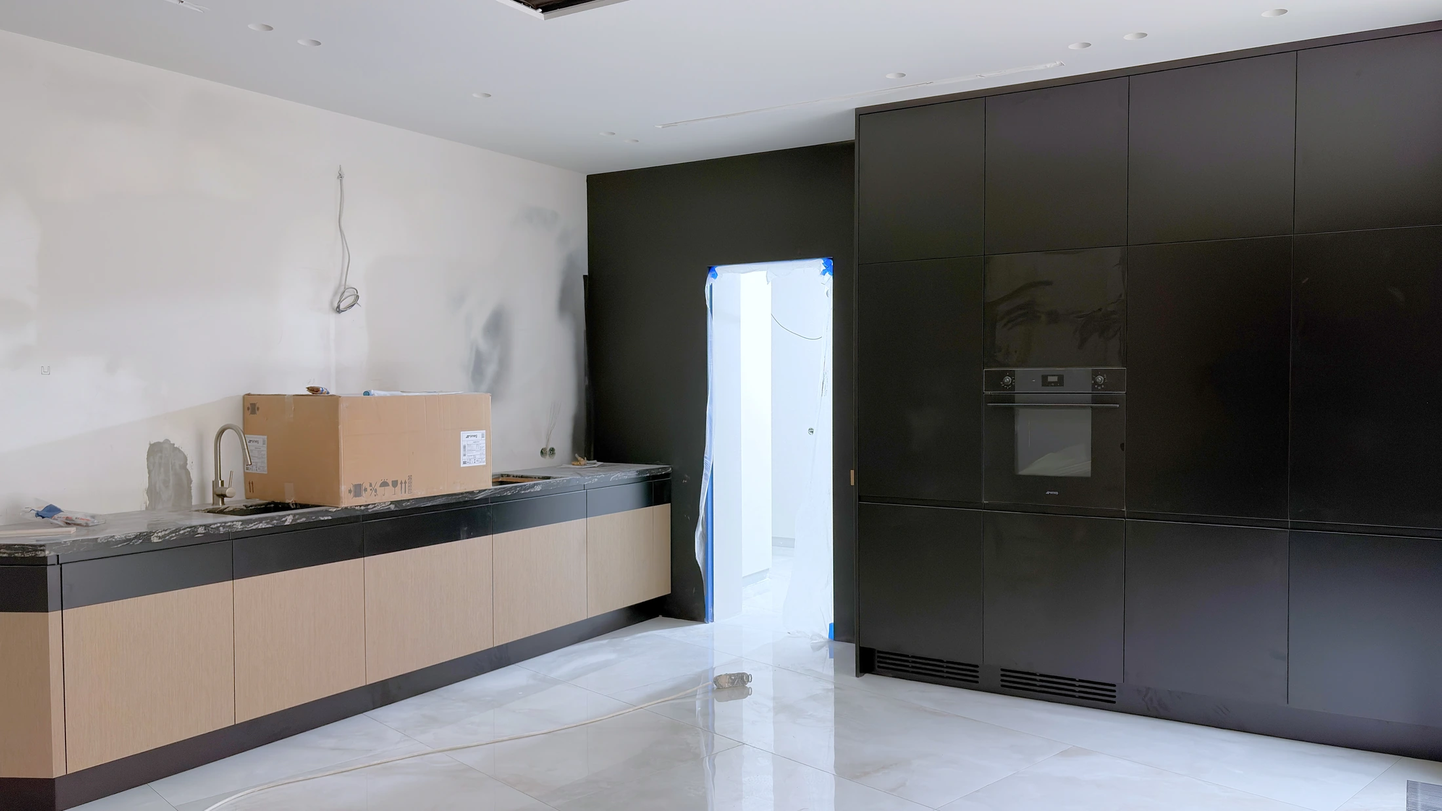
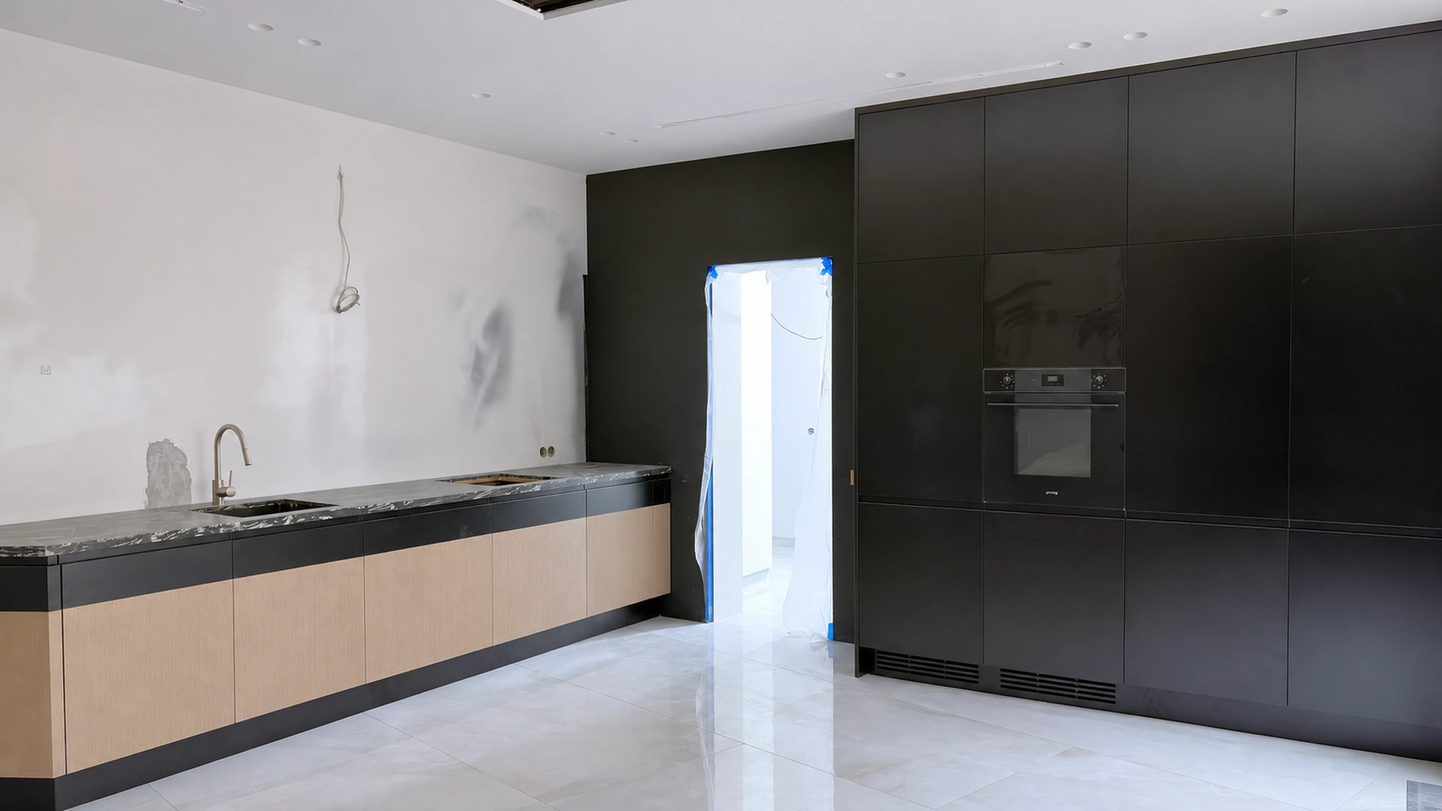
Remove construction debris from Apartment G photos

diff --git a/Прототип/cases/apartment-g/index.html b/Прототип/cases/apartment-g/index.html
@@ -51,183 +51,183 @@
     </div>
     <div class="case-gallery" aria-label="Фотографии апартамента G">
       <figure class="wide">
-        <a href="../../assets/apartment-g/IMG_6802.webp?v=4" aria-label="Открыть фото: Кухня с тёмными фасадами"><img src="../../assets/apartment-g/IMG_6802.webp?v=4" width="2200" height="1238" fetchpriority="high" alt="Кухня с тёмными фасадами"></a>
+        <a href="../../assets/apartment-g/IMG_6802.webp?v=5" aria-label="Открыть фото: Кухня с тёмными фасадами"><img src="../../assets/apartment-g/IMG_6802.webp?v=5" width="2200" height="1238" fetchpriority="high" alt="Кухня с тёмными фасадами"></a>
         <figcaption>Кухня с тёмными фасадами</figcaption>
       </figure>
       <figure class="wide">
-        <a href="../../assets/apartment-g/IMG_6803.webp?v=4" aria-label="Открыть фото: Кухня у панорамного остекления"><img src="../../assets/apartment-g/IMG_6803.webp?v=4" width="2200" height="1238" loading="lazy" decoding="async" alt="Кухня у панорамного остекления"></a>
+        <a href="../../assets/apartment-g/IMG_6803.webp?v=5" aria-label="Открыть фото: Кухня у панорамного остекления"><img src="../../assets/apartment-g/IMG_6803.webp?v=5" width="2200" height="1238" loading="lazy" decoding="async" alt="Кухня у панорамного остекления"></a>
         <figcaption>Кухня у панорамного остекления</figcaption>
       </figure>
       <figure class="wide">
-        <a href="../../assets/apartment-g/IMG_6811.webp?v=4" aria-label="Открыть фото: Комната с угловым остеклением"><img src="../../assets/apartment-g/IMG_6811.webp?v=4" width="2200" height="1238" loading="lazy" decoding="async" alt="Комната с угловым остеклением"></a>
+        <a href="../../assets/apartment-g/IMG_6811.webp?v=5" aria-label="Открыть фото: Комната с угловым остеклением"><img src="../../assets/apartment-g/IMG_6811.webp?v=5" width="2200" height="1238" loading="lazy" decoding="async" alt="Комната с угловым остеклением"></a>
         <figcaption>Комната с угловым остеклением</figcaption>
       </figure>
       <figure class="wide">
-        <a href="../../assets/apartment-g/IMG_6812.webp?v=4" aria-label="Открыть фото: Панели в спальне"><img src="../../assets/apartment-g/IMG_6812.webp?v=4" width="2200" height="1238" loading="lazy" decoding="async" alt="Панели в спальне"></a>
+        <a href="../../assets/apartment-g/IMG_6812.webp?v=5" aria-label="Открыть фото: Панели в спальне"><img src="../../assets/apartment-g/IMG_6812.webp?v=5" width="2200" height="1238" loading="lazy" decoding="async" alt="Панели в спальне"></a>
         <figcaption>Панели в спальне</figcaption>
       </figure>
       <figure>
-        <a href="../../assets/apartment-g/IMG_6813.webp?v=4" aria-label="Открыть фото: Бра и фурнитура на стеновой панели"><img src="../../assets/apartment-g/IMG_6813.webp?v=4" width="1237" height="2200" loading="lazy" decoding="async" alt="Бра и фурнитура на стеновой панели"></a>
+        <a href="../../assets/apartment-g/IMG_6813.webp?v=5" aria-label="Открыть фото: Бра и фурнитура на стеновой панели"><img src="../../assets/apartment-g/IMG_6813.webp?v=5" width="1237" height="2200" loading="lazy" decoding="async" alt="Бра и фурнитура на стеновой панели"></a>
         <figcaption>Бра и фурнитура на стеновой панели</figcaption>
       </figure>
       <figure>
-        <a href="../../assets/apartment-g/IMG_6814.webp?v=4" aria-label="Открыть фото: Окно в спальне"><img src="../../assets/apartment-g/IMG_6814.webp?v=4" width="1237" height="2200" loading="lazy" decoding="async" alt="Окно в спальне"></a>
+        <a href="../../assets/apartment-g/IMG_6814.webp?v=5" aria-label="Открыть фото: Окно в спальне"><img src="../../assets/apartment-g/IMG_6814.webp?v=5" width="1237" height="2200" loading="lazy" decoding="async" alt="Окно в спальне"></a>
         <figcaption>Окно в спальне</figcaption>
       </figure>
       <figure>
-        <a href="../../assets/apartment-g/IMG_6976.webp?v=4" aria-label="Открыть фото: Примыкание ступени к полу"><img src="../../assets/apartment-g/IMG_6976.webp?v=4" width="1237" height="2200" loading="lazy" decoding="async" alt="Примыкание ступени к полу"></a>
+        <a href="../../assets/apartment-g/IMG_6976.webp?v=5" aria-label="Открыть фото: Примыкание ступени к полу"><img src="../../assets/apartment-g/IMG_6976.webp?v=5" width="1237" height="2200" loading="lazy" decoding="async" alt="Примыкание ступени к полу"></a>
         <figcaption>Примыкание ступени к полу</figcaption>
       </figure>
       <figure>
-        <a href="../../assets/apartment-g/IMG_6977.webp?v=4" aria-label="Открыть фото: Кромка ступени"><img src="../../assets/apartment-g/IMG_6977.webp?v=4" width="1237" height="2200" loading="lazy" decoding="async" alt="Кромка ступени"></a>
+        <a href="../../assets/apartment-g/IMG_6977.webp?v=5" aria-label="Открыть фото: Кромка ступени"><img src="../../assets/apartment-g/IMG_6977.webp?v=5" width="1237" height="2200" loading="lazy" decoding="async" alt="Кромка ступени"></a>
         <figcaption>Кромка ступени</figcaption>
       </figure>
       <figure>
-        <a href="../../assets/apartment-g/IMG_6986.webp?v=4" aria-label="Открыть фото: Фактура светлой стены"><img src="../../assets/apartment-g/IMG_6986.webp?v=4" width="1237" height="2200" loading="lazy" decoding="async" alt="Фактура светлой стены"></a>
+        <a href="../../assets/apartment-g/IMG_6986.webp?v=5" aria-label="Открыть фото: Фактура светлой стены"><img src="../../assets/apartment-g/IMG_6986.webp?v=5" width="1237" height="2200" loading="lazy" decoding="async" alt="Фактура светлой стены"></a>
         <figcaption>Фактура светлой стены</figcaption>
       </figure>
       <figure>
-        <a href="../../assets/apartment-g/IMG_6987.webp?v=4" aria-label="Открыть фото: Древесная фактура"><img src="../../assets/apartment-g/IMG_6987.webp?v=4" width="1237" height="2200" loading="lazy" decoding="async" alt="Древесная фактура"></a>
+        <a href="../../assets/apartment-g/IMG_6987.webp?v=5" aria-label="Открыть фото: Древесная фактура"><img src="../../assets/apartment-g/IMG_6987.webp?v=5" width="1237" height="2200" loading="lazy" decoding="async" alt="Древесная фактура"></a>
         <figcaption>Древесная фактура</figcaption>
       </figure>
       <figure>
-        <a href="../../assets/apartment-g/IMG_6988.webp?v=4" aria-label="Открыть фото: Коридор с трековым светом"><img src="../../assets/apartment-g/IMG_6988.webp?v=4" width="1237" height="2200" loading="lazy" decoding="async" alt="Коридор с трековым светом"></a>
+        <a href="../../assets/apartment-g/IMG_6988.webp?v=5" aria-label="Открыть фото: Коридор с трековым светом"><img src="../../assets/apartment-g/IMG_6988.webp?v=5" width="1237" height="2200" loading="lazy" decoding="async" alt="Коридор с трековым светом"></a>
         <figcaption>Коридор с трековым светом</figcaption>
       </figure>
       <figure>
-        <a href="../../assets/apartment-g/IMG_6994.webp?v=4" aria-label="Открыть фото: Санузел в процессе работ"><img src="../../assets/apartment-g/IMG_6994.webp?v=4" width="1237" height="2200" loading="lazy" decoding="async" alt="Санузел в процессе работ"></a>
+        <a href="../../assets/apartment-g/IMG_6994.webp?v=5" aria-label="Открыть фото: Санузел в процессе работ"><img src="../../assets/apartment-g/IMG_6994.webp?v=5" width="1237" height="2200" loading="lazy" decoding="async" alt="Санузел в процессе работ"></a>
         <figcaption>Санузел в процессе работ</figcaption>
       </figure>
       <figure>
-        <a href="../../assets/apartment-g/IMG_6998.webp?v=4" aria-label="Открыть фото: Настенный светильник в коридоре"><img src="../../assets/apartment-g/IMG_6998.webp?v=4" width="1237" height="2200" loading="lazy" decoding="async" alt="Настенный светильник в коридоре"></a>
+        <a href="../../assets/apartment-g/IMG_6998.webp?v=5" aria-label="Открыть фото: Настенный светильник в коридоре"><img src="../../assets/apartment-g/IMG_6998.webp?v=5" width="1237" height="2200" loading="lazy" decoding="async" alt="Настенный светильник в коридоре"></a>
         <figcaption>Настенный светильник в коридоре</figcaption>
       </figure>
       <figure>
-        <a href="../../assets/apartment-g/IMG_6999.webp?v=4" aria-label="Открыть фото: Трековые светильники и подсветка"><img src="../../assets/apartment-g/IMG_6999.webp?v=4" width="1339" height="2200" loading="lazy" decoding="async" alt="Трековые светильники и подсветка"></a>
+        <a href="../../assets/apartment-g/IMG_6999.webp?v=5" aria-label="Открыть фото: Трековые светильники и подсветка"><img src="../../assets/apartment-g/IMG_6999.webp?v=5" width="1339" height="2200" loading="lazy" decoding="async" alt="Трековые светильники и подсветка"></a>
         <figcaption>Трековые светильники и подсветка</figcaption>
       </figure>
       <figure>
-        <a href="../../assets/apartment-g/IMG_7001.webp?v=4" aria-label="Открыть фото: Коридор со стороны остекления"><img src="../../assets/apartment-g/IMG_7001.webp?v=4" width="1238" height="2200" loading="lazy" decoding="async" alt="Коридор со стороны остекления"></a>
+        <a href="../../assets/apartment-g/IMG_7001.webp?v=5" aria-label="Открыть фото: Коридор со стороны остекления"><img src="../../assets/apartment-g/IMG_7001.webp?v=5" width="1238" height="2200" loading="lazy" decoding="async" alt="Коридор со стороны остекления"></a>
         <figcaption>Коридор со стороны остекления</figcaption>
       </figure>
       <figure>
-        <a href="../../assets/apartment-g/IMG_7002.webp?v=4" aria-label="Открыть фото: Коридор, вид с другой стороны"><img src="../../assets/apartment-g/IMG_7002.webp?v=4" width="1237" height="2200" loading="lazy" decoding="async" alt="Коридор, вид с другой стороны"></a>
+        <a href="../../assets/apartment-g/IMG_7002.webp?v=5" aria-label="Открыть фото: Коридор, вид с другой стороны"><img src="../../assets/apartment-g/IMG_7002.webp?v=5" width="1237" height="2200" loading="lazy" decoding="async" alt="Коридор, вид с другой стороны"></a>
         <figcaption>Коридор, вид с другой стороны</figcaption>
       </figure>
       <figure>
-        <a href="../../assets/apartment-g/IMG_7003.webp?v=4" aria-label="Открыть фото: Вид из коридора в столовую"><img src="../../assets/apartment-g/IMG_7003.webp?v=4" width="1238" height="2200" loading="lazy" decoding="async" alt="Вид из коридора в столовую"></a>
+        <a href="../../assets/apartment-g/IMG_7003.webp?v=5" aria-label="Открыть фото: Вид из коридора в столовую"><img src="../../assets/apartment-g/IMG_7003.webp?v=5" width="1238" height="2200" loading="lazy" decoding="async" alt="Вид из коридора в столовую"></a>
         <figcaption>Вид из коридора в столовую</figcaption>
       </figure>
       <figure class="wide">
-        <a href="../../assets/apartment-g/IMG_7006.webp?v=4" aria-label="Открыть фото: Трековое освещение у каменных панелей"><img src="../../assets/apartment-g/IMG_7006.webp?v=4" width="2200" height="1238" loading="lazy" decoding="async" alt="Трековое освещение у каменных панелей"></a>
+        <a href="../../assets/apartment-g/IMG_7006.webp?v=5" aria-label="Открыть фото: Трековое освещение у каменных панелей"><img src="../../assets/apartment-g/IMG_7006.webp?v=5" width="2200" height="1238" loading="lazy" decoding="async" alt="Трековое освещение у каменных панелей"></a>
         <figcaption>Трековое освещение у каменных панелей</figcaption>
       </figure>
       <figure>
-        <a href="../../assets/apartment-g/IMG_7011.webp?v=4" aria-label="Открыть фото: Комната в процессе работ"><img src="../../assets/apartment-g/IMG_7011.webp?v=4" width="1237" height="2200" loading="lazy" decoding="async" alt="Комната в процессе работ"></a>
+        <a href="../../assets/apartment-g/IMG_7011.webp?v=5" aria-label="Открыть фото: Комната в процессе работ"><img src="../../assets/apartment-g/IMG_7011.webp?v=5" width="1237" height="2200" loading="lazy" decoding="async" alt="Комната в процессе работ"></a>
         <figcaption>Комната в процессе работ</figcaption>
       </figure>
       <figure>
-        <a href="../../assets/apartment-g/IMG_7015.webp?v=4" aria-label="Открыть фото: Подсветка потолочной ниши"><img src="../../assets/apartment-g/IMG_7015.webp?v=4" width="1238" height="2200" loading="lazy" decoding="async" alt="Подсветка потолочной ниши"></a>
+        <a href="../../assets/apartment-g/IMG_7015.webp?v=5" aria-label="Открыть фото: Подсветка потолочной ниши"><img src="../../assets/apartment-g/IMG_7015.webp?v=5" width="1238" height="2200" loading="lazy" decoding="async" alt="Подсветка потолочной ниши"></a>
         <figcaption>Подсветка потолочной ниши</figcaption>
       </figure>
       <figure>
-        <a href="../../assets/apartment-g/IMG_7016.webp?v=4" aria-label="Открыть фото: Световая линия вдоль стены"><img src="../../assets/apartment-g/IMG_7016.webp?v=4" width="1237" height="2200" loading="lazy" decoding="async" alt="Световая линия вдоль стены"></a>
+        <a href="../../assets/apartment-g/IMG_7016.webp?v=5" aria-label="Открыть фото: Световая линия вдоль стены"><img src="../../assets/apartment-g/IMG_7016.webp?v=5" width="1237" height="2200" loading="lazy" decoding="async" alt="Световая линия вдоль стены"></a>
         <figcaption>Световая линия вдоль стены</figcaption>
       </figure>
       <figure class="wide">
-        <a href="../../assets/apartment-g/IMG_7018.webp?v=4" aria-label="Открыть фото: Трек и контурная подсветка потолка"><img src="../../assets/apartment-g/IMG_7018.webp?v=4" width="2200" height="1238" loading="lazy" decoding="async" alt="Трек и контурная подсветка потолка"></a>
+        <a href="../../assets/apartment-g/IMG_7018.webp?v=5" aria-label="Открыть фото: Трек и контурная подсветка потолка"><img src="../../assets/apartment-g/IMG_7018.webp?v=5" width="2200" height="1238" loading="lazy" decoding="async" alt="Трек и контурная подсветка потолка"></a>
         <figcaption>Трек и контурная подсветка потолка</figcaption>
       </figure>
       <figure class="wide">
-        <a href="../../assets/apartment-g/IMG_7024.webp?v=4" aria-label="Открыть фото: Каменные панели у входа в столовую"><img src="../../assets/apartment-g/IMG_7024.webp?v=4" width="2200" height="1238" loading="lazy" decoding="async" alt="Каменные панели у входа в столовую"></a>
+        <a href="../../assets/apartment-g/IMG_7024.webp?v=5" aria-label="Открыть фото: Каменные панели у входа в столовую"><img src="../../assets/apartment-g/IMG_7024.webp?v=5" width="2200" height="1238" loading="lazy" decoding="async" alt="Каменные панели у входа в столовую"></a>
         <figcaption>Каменные панели у входа в столовую</figcaption>
       </figure>
       <figure class="wide">
-        <a href="../../assets/apartment-g/IMG_7351.webp?v=4" aria-label="Открыть фото: Спальня со стороны входа"><img src="../../assets/apartment-g/IMG_7351.webp?v=4" width="2200" height="1238" loading="lazy" decoding="async" alt="Спальня со стороны входа"></a>
+        <a href="../../assets/apartment-g/IMG_7351.webp?v=5" aria-label="Открыть фото: Спальня со стороны входа"><img src="../../assets/apartment-g/IMG_7351.webp?v=5" width="2200" height="1238" loading="lazy" decoding="async" alt="Спальня со стороны входа"></a>
         <figcaption>Спальня со стороны входа</figcaption>
       </figure>
       <figure class="wide">
-        <a href="../../assets/apartment-g/IMG_7357.webp?v=4" aria-label="Открыть фото: Спальня с панелями за изголовьем"><img src="../../assets/apartment-g/IMG_7357.webp?v=4" width="2200" height="1238" loading="lazy" decoding="async" alt="Спальня с панелями за изголовьем"></a>
+        <a href="../../assets/apartment-g/IMG_7357.webp?v=5" aria-label="Открыть фото: Спальня с панелями за изголовьем"><img src="../../assets/apartment-g/IMG_7357.webp?v=5" width="2200" height="1238" loading="lazy" decoding="async" alt="Спальня с панелями за изголовьем"></a>
         <figcaption>Спальня с панелями за изголовьем</figcaption>
       </figure>
       <figure>
-        <a href="../../assets/apartment-g/IMG_7370.webp?v=4" aria-label="Открыть фото: Санузел с подвесным унитазом"><img src="../../assets/apartment-g/IMG_7370.webp?v=4" width="1237" height="2200" loading="lazy" decoding="async" alt="Санузел с подвесным унитазом"></a>
+        <a href="../../assets/apartment-g/IMG_7370.webp?v=5" aria-label="Открыть фото: Санузел с подвесным унитазом"><img src="../../assets/apartment-g/IMG_7370.webp?v=5" width="1237" height="2200" loading="lazy" decoding="async" alt="Санузел с подвесным унитазом"></a>
         <figcaption>Санузел с подвесным унитазом</figcaption>
       </figure>
       <figure class="wide">
-        <a href="../../assets/apartment-g/IMG_7371.webp?v=4" aria-label="Открыть фото: Потолок санузла в процессе монтажа"><img src="../../assets/apartment-g/IMG_7371.webp?v=4" width="2200" height="1238" loading="lazy" decoding="async" alt="Потолок санузла в процессе монтажа"></a>
+        <a href="../../assets/apartment-g/IMG_7371.webp?v=5" aria-label="Открыть фото: Потолок санузла в процессе монтажа"><img src="../../assets/apartment-g/IMG_7371.webp?v=5" width="2200" height="1238" loading="lazy" decoding="async" alt="Потолок санузла в процессе монтажа"></a>
         <figcaption>Потолок санузла в процессе монтажа</figcaption>
       </figure>
       <figure>
-        <a href="../../assets/apartment-g/IMG_7374.webp?v=4" aria-label="Открыть фото: Смеситель у ванны"><img src="../../assets/apartment-g/IMG_7374.webp?v=4" width="1237" height="2200" loading="lazy" decoding="async" alt="Смеситель у ванны"></a>
+        <a href="../../assets/apartment-g/IMG_7374.webp?v=5" aria-label="Открыть фото: Смеситель у ванны"><img src="../../assets/apartment-g/IMG_7374.webp?v=5" width="1237" height="2200" loading="lazy" decoding="async" alt="Смеситель у ванны"></a>
         <figcaption>Смеситель у ванны</figcaption>
       </figure>
       <figure>
-        <a href="../../assets/apartment-g/IMG_7375.webp?v=4" aria-label="Открыть фото: Стык двух видов облицовки"><img src="../../assets/apartment-g/IMG_7375.webp?v=4" width="1237" height="2200" loading="lazy" decoding="async" alt="Стык двух видов облицовки"></a>
+        <a href="../../assets/apartment-g/IMG_7375.webp?v=5" aria-label="Открыть фото: Стык двух видов облицовки"><img src="../../assets/apartment-g/IMG_7375.webp?v=5" width="1237" height="2200" loading="lazy" decoding="async" alt="Стык двух видов облицовки"></a>
         <figcaption>Стык двух видов облицовки</figcaption>
       </figure>
       <figure>
-        <a href="../../assets/apartment-g/IMG_7376.webp?v=4" aria-label="Открыть фото: Крючки на стене санузла"><img src="../../assets/apartment-g/IMG_7376.webp?v=4" width="1237" height="2200" loading="lazy" decoding="async" alt="Крючки на стене санузла"></a>
+        <a href="../../assets/apartment-g/IMG_7376.webp?v=5" aria-label="Открыть фото: Крючки на стене санузла"><img src="../../assets/apartment-g/IMG_7376.webp?v=5" width="1237" height="2200" loading="lazy" decoding="async" alt="Крючки на стене санузла"></a>
         <figcaption>Крючки на стене санузла</figcaption>
       </figure>
       <figure class="wide">
-        <a href="../../assets/apartment-g/IMG_7379.webp?v=4" aria-label="Открыть фото: Спальня с угловым остеклением"><img src="../../assets/apartment-g/IMG_7379.webp?v=4" width="2200" height="1238" loading="lazy" decoding="async" alt="Спальня с угловым остеклением"></a>
+        <a href="../../assets/apartment-g/IMG_7379.webp?v=5" aria-label="Открыть фото: Спальня с угловым остеклением"><img src="../../assets/apartment-g/IMG_7379.webp?v=5" width="2200" height="1238" loading="lazy" decoding="async" alt="Спальня с угловым остеклением"></a>
         <figcaption>Спальня с угловым остеклением</figcaption>
       </figure>
       <figure class="wide">
-        <a href="../../assets/apartment-g/IMG_7381.webp?v=4" aria-label="Открыть фото: Спальня, вид на панорамное окно"><img src="../../assets/apartment-g/IMG_7381.webp?v=4" width="2200" height="1238" loading="lazy" decoding="async" alt="Спальня, вид на панорамное окно"></a>
+        <a href="../../assets/apartment-g/IMG_7381.webp?v=5" aria-label="Открыть фото: Спальня, вид на панорамное окно"><img src="../../assets/apartment-g/IMG_7381.webp?v=5" width="2200" height="1238" loading="lazy" decoding="async" alt="Спальня, вид на панорамное окно"></a>
         <figcaption>Спальня, вид на панорамное окно</figcaption>
       </figure>
       <figure>
-        <a href="../../assets/apartment-g/IMG_7383.webp?v=4" aria-label="Открыть фото: Подсветка над стеновыми панелями в спальне"><img src="../../assets/apartment-g/IMG_7383.webp?v=4" width="1237" height="2200" loading="lazy" decoding="async" alt="Подсветка над стеновыми панелями в спальне"></a>
+        <a href="../../assets/apartment-g/IMG_7383.webp?v=5" aria-label="Открыть фото: Подсветка над стеновыми панелями в спальне"><img src="../../assets/apartment-g/IMG_7383.webp?v=5" width="1237" height="2200" loading="lazy" decoding="async" alt="Подсветка над стеновыми панелями в спальне"></a>
         <figcaption>Подсветка над стеновыми панелями в спальне</figcaption>
       </figure>
       <figure class="wide">
-        <a href="../../assets/apartment-g/IMG_7394.webp?v=4" aria-label="Открыть фото: Гостиная вдоль панорамных окон"><img src="../../assets/apartment-g/IMG_7394.webp?v=4" width="2200" height="1238" loading="lazy" decoding="async" alt="Гостиная вдоль панорамных окон"></a>
+        <a href="../../assets/apartment-g/IMG_7394.webp?v=5" aria-label="Открыть фото: Гостиная вдоль панорамных окон"><img src="../../assets/apartment-g/IMG_7394.webp?v=5" width="2200" height="1238" loading="lazy" decoding="async" alt="Гостиная вдоль панорамных окон"></a>
         <figcaption>Гостиная вдоль панорамных окон</figcaption>
       </figure>
       <figure class="wide">
-        <a href="../../assets/apartment-g/IMG_7395.webp?v=4" aria-label="Открыть фото: Гостиная с мягкой мебелью"><img src="../../assets/apartment-g/IMG_7395.webp?v=4" width="2200" height="1238" loading="lazy" decoding="async" alt="Гостиная с мягкой мебелью"></a>
+        <a href="../../assets/apartment-g/IMG_7395.webp?v=5" aria-label="Открыть фото: Гостиная с мягкой мебелью"><img src="../../assets/apartment-g/IMG_7395.webp?v=5" width="2200" height="1238" loading="lazy" decoding="async" alt="Гостиная с мягкой мебелью"></a>
         <figcaption>Гостиная с мягкой мебелью</figcaption>
       </figure>
       <figure class="wide">
-        <a href="../../assets/apartment-g/IMG_7402.webp?v=4" aria-label="Открыть фото: Потолок гостиной в процессе работ"><img src="../../assets/apartment-g/IMG_7402.webp?v=4" width="2200" height="1238" loading="lazy" decoding="async" alt="Потолок гостиной в процессе работ"></a>
+        <a href="../../assets/apartment-g/IMG_7402.webp?v=5" aria-label="Открыть фото: Потолок гостиной в процессе работ"><img src="../../assets/apartment-g/IMG_7402.webp?v=5" width="2200" height="1238" loading="lazy" decoding="async" alt="Потолок гостиной в процессе работ"></a>
         <figcaption>Потолок гостиной в процессе работ</figcaption>
       </figure>
       <figure class="wide">
-        <a href="../../assets/apartment-g/IMG_7410.webp?v=4" aria-label="Открыть фото: Проход из гостиной в соседние помещения"><img src="../../assets/apartment-g/IMG_7410.webp?v=4" width="2200" height="1238" loading="lazy" decoding="async" alt="Проход из гостиной в соседние помещения"></a>
+        <a href="../../assets/apartment-g/IMG_7410.webp?v=5" aria-label="Открыть фото: Проход из гостиной в соседние помещения"><img src="../../assets/apartment-g/IMG_7410.webp?v=5" width="2200" height="1238" loading="lazy" decoding="async" alt="Проход из гостиной в соседние помещения"></a>
         <figcaption>Проход из гостиной в соседние помещения</figcaption>
       </figure>
       <figure class="wide">
-        <a href="../../assets/apartment-g/IMG_7425.webp?v=4" aria-label="Открыть фото: Кухня-столовая с подвесными светильниками"><img src="../../assets/apartment-g/IMG_7425.webp?v=4" width="2200" height="1238" loading="lazy" decoding="async" alt="Кухня-столовая с подвесными светильниками"></a>
+        <a href="../../assets/apartment-g/IMG_7425.webp?v=5" aria-label="Открыть фото: Кухня-столовая с подвесными светильниками"><img src="../../assets/apartment-g/IMG_7425.webp?v=5" width="2200" height="1238" loading="lazy" decoding="async" alt="Кухня-столовая с подвесными светильниками"></a>
         <figcaption>Кухня-столовая с подвесными светильниками</figcaption>
       </figure>
       <figure class="wide">
-        <a href="../../assets/apartment-g/IMG_7427.webp?v=4" aria-label="Открыть фото: Гостиная с настенными светильниками"><img src="../../assets/apartment-g/IMG_7427.webp?v=4" width="2200" height="1238" loading="lazy" decoding="async" alt="Гостиная с настенными светильниками"></a>
+        <a href="../../assets/apartment-g/IMG_7427.webp?v=5" aria-label="Открыть фото: Гостиная с настенными светильниками"><img src="../../assets/apartment-g/IMG_7427.webp?v=5" width="2200" height="1238" loading="lazy" decoding="async" alt="Гостиная с настенными светильниками"></a>
         <figcaption>Гостиная с настенными светильниками</figcaption>
       </figure>
       <figure class="wide">
-        <a href="../../assets/apartment-g/IMG_7432.webp?v=4" aria-label="Открыть фото: Стеновые панели и трековый свет в коридоре"><img src="../../assets/apartment-g/IMG_7432.webp?v=4" width="2200" height="1238" loading="lazy" decoding="async" alt="Стеновые панели и трековый свет в коридоре"></a>
+        <a href="../../assets/apartment-g/IMG_7432.webp?v=5" aria-label="Открыть фото: Стеновые панели и трековый свет в коридоре"><img src="../../assets/apartment-g/IMG_7432.webp?v=5" width="2200" height="1238" loading="lazy" decoding="async" alt="Стеновые панели и трековый свет в коридоре"></a>
         <figcaption>Стеновые панели и трековый свет в коридоре</figcaption>
       </figure>
       <figure>
-        <a href="../../assets/apartment-g/IMG_7435.webp?v=4" aria-label="Открыть фото: Электрощит"><img src="../../assets/apartment-g/IMG_7435.webp?v=4" width="1237" height="2200" loading="lazy" decoding="async" alt="Электрощит"></a>
+        <a href="../../assets/apartment-g/IMG_7435.webp?v=5" aria-label="Открыть фото: Электрощит"><img src="../../assets/apartment-g/IMG_7435.webp?v=5" width="1237" height="2200" loading="lazy" decoding="async" alt="Электрощит"></a>
         <figcaption>Электрощит</figcaption>
       </figure>
       <figure>
-        <a href="../../assets/apartment-g/IMG_7437.webp?v=4" aria-label="Открыть фото: Помещение в процессе отделки"><img src="../../assets/apartment-g/IMG_7437.webp?v=4" width="1237" height="2200" loading="lazy" decoding="async" alt="Помещение в процессе отделки"></a>
+        <a href="../../assets/apartment-g/IMG_7437.webp?v=5" aria-label="Открыть фото: Помещение в процессе отделки"><img src="../../assets/apartment-g/IMG_7437.webp?v=5" width="1237" height="2200" loading="lazy" decoding="async" alt="Помещение в процессе отделки"></a>
         <figcaption>Помещение в процессе отделки</figcaption>
       </figure>
       <figure class="wide">
-        <a href="../../assets/apartment-g/IMG_7445.webp?v=4" aria-label="Открыть фото: Столовая, вид на подвесные светильники"><img src="../../assets/apartment-g/IMG_7445.webp?v=4" width="2200" height="1238" loading="lazy" decoding="async" alt="Столовая, вид на подвесные светильники"></a>
+        <a href="../../assets/apartment-g/IMG_7445.webp?v=5" aria-label="Открыть фото: Столовая, вид на подвесные светильники"><img src="../../assets/apartment-g/IMG_7445.webp?v=5" width="2200" height="1238" loading="lazy" decoding="async" alt="Столовая, вид на подвесные светильники"></a>
         <figcaption>Столовая, вид на подвесные светильники</figcaption>
       </figure>
       <figure>
-        <a href="../../assets/apartment-g/IMG_7457.webp?v=4" aria-label="Открыть фото: Комната со стремянкой и рабочим освещением"><img src="../../assets/apartment-g/IMG_7457.webp?v=4" width="1237" height="2200" loading="lazy" decoding="async" alt="Комната со стремянкой и рабочим освещением"></a>
+        <a href="../../assets/apartment-g/IMG_7457.webp?v=5" aria-label="Открыть фото: Комната со стремянкой и рабочим освещением"><img src="../../assets/apartment-g/IMG_7457.webp?v=5" width="1237" height="2200" loading="lazy" decoding="async" alt="Комната со стремянкой и рабочим освещением"></a>
         <figcaption>Комната со стремянкой и рабочим освещением</figcaption>
       </figure>
       <figure>
-        <a href="../../assets/apartment-g/IMG_7465.webp?v=4" aria-label="Открыть фото: Душевая в процессе работ"><img src="../../assets/apartment-g/IMG_7465.webp?v=4" width="1237" height="2200" loading="lazy" decoding="async" alt="Душевая в процессе работ"></a>
+        <a href="../../assets/apartment-g/IMG_7465.webp?v=5" aria-label="Открыть фото: Душевая в процессе работ"><img src="../../assets/apartment-g/IMG_7465.webp?v=5" width="1237" height="2200" loading="lazy" decoding="async" alt="Душевая в процессе работ"></a>
         <figcaption>Душевая в процессе работ</figcaption>
       </figure>
     </div>

diff --git a/Прототип/index.html b/Прототип/index.html
@@ -8,7 +8,7 @@
 <dialog id="siteMenu" class="site-menu" aria-label="Навигация по сайту"><button class="close" id="closeMenu" aria-label="Закрыть меню">×</button><nav aria-label="Разделы сайта"><a href="#about">Подход</a><a href="#projects">Интерьеры</a><a href="#solutions">Комфорт</a><a href="#clarity">Договорённости</a><a href="#questions">Вопросы</a><a href="#contact">Контакты</a></nav></dialog>
 <main><section class="hero" id="home"><img src="assets/apartment-f/gallery/7060-retouched.webp" alt="Гостиная апартамента F с подсвеченной лестницей"><div class="hero-shade"></div><header class="hero-header"><button class="menu-toggle" id="menuToggle" aria-label="Открыть меню" aria-expanded="false" aria-controls="siteMenu"><svg viewBox="0 0 30 20"><path d="M1 3h28M1 10h28M1 17h19"/></svg></button><div class="header-actions"><a class="contact-icon" href="#contact" data-channel="Telegram" aria-label="Выбрать связь через Telegram" title="Связь через Telegram"><svg viewBox="0 0 24 24"><path d="m3 10 18-7-4 18-6-6-4 3 1-6 10-7-8 9"/></svg></a><a class="contact-icon" href="tel:+79884134357" aria-label="Позвонить в Atlas Group" title="+7 (988) 413-43-57"><svg viewBox="0 0 24 24"><path d="M6 3 3 6c1 8 7 14 15 15l3-3-5-4-2 2c-3-1-5-3-6-6l2-2Z"/></svg></a><a class="pill" href="#contact">Обсудить проект ↗</a></div></header><div class="hero-copy"><a class="hero-brand" href="#home" aria-label="Atlas Group — на главную"><img src="assets/brand/Atlas_Group_Logo_Light.svg" width="555" height="182" alt="Atlas Group"></a><h1>Ваш дом.<br><em>В точном исполнении.</em></h1><p>От пустого пространства до готового интерьера — с вниманием к вашим пожеланиям и каждой детали.<br>Создаём и реализуем интерьеры для вашей жизни.</p><a class="pill light" href="#contact">Обсудить ремонт ↗</a></div><a href="#about" class="scroll-link" aria-label="Далее, о компании">↓</a></section>
 <nav class="section-nav" aria-label="Разделы сайта"><button type="button" data-section-step="-1" aria-label="Предыдущий раздел">←</button><div class="section-nav-links"><a href="#about">Подход</a><a href="#projects">Интерьеры</a><a href="#solutions">Комфорт</a><a href="#clarity">Договорённости</a><a href="#questions">Вопросы</a><a href="#contact">Контакты</a></div><button type="button" data-section-step="1" aria-label="Следующий раздел">→</button></nav><section class="section about" id="about"><div class="section-heading"><span class="eyebrow">01 / НАШ ПОДХОД</span><h2>Дом начинается с того,<br><em>как вы хотите в нём жить.</em></h2></div><div class="about-grid"><div class="about-copy"><p class="lead">Красота замысла.<br>Точность воплощения.</p><p>Разрабатываем интерьеры и выполняем ремонт квартир и домов в Сочи — от дизайн-проекта и инженерных работ до чистовой отделки.</p><p>Сначала обсуждаем ваши пожелания: каким вы видите будущий дом, что для вас важно в планировке, материалах и оформлении. Разрабатываем проект, согласуем сроки и организуем работы. Контролируем качество каждого этапа. Стоимость рассчитываем заранее и фиксируем в смете до начала ремонта.</p><a class="text-link" href="#contact">Начать с консультации <span>↗</span></a></div><figure><img src="assets/apartment-f/gallery/7053-retouched.webp" alt="Гостиная и столовая апартамента F" loading="lazy"><figcaption>Естественный свет · Тактильные материалы · Чистые линии</figcaption></figure></div><div class="principles"><div><span class="line-icon">⌑</span><strong>Всё в одних руках</strong><p>Одна команда ведёт ваш проект —<br>от первых решений до готового интерьера.</p></div><div><span class="line-icon">◷</span><strong>Понятный процесс</strong><p>Состав работ, бюджет и сроки<br>согласуем заранее.</p></div><div><span class="line-icon">✧</span><strong>Внимание к деталям</strong><p>От инженерной основы<br>до финишной отделки.</p></div></div></section>
-<div class="brand-ribbon" aria-hidden="true"><span class="brand-ribbon-label">ATLAS GROUP</span><span class="brand-ribbon-pattern"></span><span class="brand-ribbon-index">СОЧИ</span></div><section class="section projects" id="projects"><div class="section-heading row"><div><span class="eyebrow">02 / ХАРАКТЕР ИНТЕРЬЕРА</span><h2>Пространства.<br><em>Такие разные. Ваши.</em></h2></div><p>Интерьеры квартир и домов.<br>Разные задачи, индивидуальные решения.</p></div><div class="gallery"><a class="photo-card tall" href="cases/apartment-f/index.html" data-kind="apartment" data-case aria-haspopup="dialog" aria-controls="apartment-f-dialog" style="text-decoration:none"><img src="assets/apartment-f/gallery/7060-retouched.webp" alt="Гостиная апартамента F с подсвеченной лестницей" loading="lazy"><span><small>РЕАЛИЗОВАННЫЙ ИНТЕРЬЕР</small><strong>Апартамент F</strong><i>Сочи · Два уровня · Смотреть кейс</i></span></a><a class="photo-card tall" href="cases/apartment-g/index.html" data-case data-kind="apartment" aria-haspopup="dialog" aria-controls="apartment-g-dialog" style="text-decoration:none"><img src="assets/apartment-g/IMG_7427.webp?v=4" alt="Гостиная апартамента G на текущем этапе ремонта" loading="lazy"><span><small>РЕМОНТ В ПРОЦЕССЕ</small><strong>Апартамент G</strong><i>Смотреть кейс ↗</i></span></a></div></section>
+<div class="brand-ribbon" aria-hidden="true"><span class="brand-ribbon-label">ATLAS GROUP</span><span class="brand-ribbon-pattern"></span><span class="brand-ribbon-index">СОЧИ</span></div><section class="section projects" id="projects"><div class="section-heading row"><div><span class="eyebrow">02 / ХАРАКТЕР ИНТЕРЬЕРА</span><h2>Пространства.<br><em>Такие разные. Ваши.</em></h2></div><p>Интерьеры квартир и домов.<br>Разные задачи, индивидуальные решения.</p></div><div class="gallery"><a class="photo-card tall" href="cases/apartment-f/index.html" data-kind="apartment" data-case aria-haspopup="dialog" aria-controls="apartment-f-dialog" style="text-decoration:none"><img src="assets/apartment-f/gallery/7060-retouched.webp" alt="Гостиная апартамента F с подсвеченной лестницей" loading="lazy"><span><small>РЕАЛИЗОВАННЫЙ ИНТЕРЬЕР</small><strong>Апартамент F</strong><i>Сочи · Два уровня · Смотреть кейс</i></span></a><a class="photo-card tall" href="cases/apartment-g/index.html" data-case data-kind="apartment" aria-haspopup="dialog" aria-controls="apartment-g-dialog" style="text-decoration:none"><img src="assets/apartment-g/IMG_7427.webp?v=5" alt="Гостиная апартамента G на текущем этапе ремонта" loading="lazy"><span><small>РЕМОНТ В ПРОЦЕССЕ</small><strong>Апартамент G</strong><i>Смотреть кейс ↗</i></span></a></div></section>
 
 <section class="section stories" id="solutions"><div class="section-heading"><span class="eyebrow">03 / В ОСНОВЕ КОМФОРТА</span><h2>Невидимые с первого взгляда.<br><em>Заметные каждый день.</em></h2></div><article class="story"><div><span class="story-number">01</span><span class="eyebrow">Планировка</span><h3>У каждого дома свой ритм</h3><p>Кому-то нужна большая кухня для встреч с друзьями, кому-то — тихий кабинет или отдельная детская. Обсуждаем ваши пожелания, делаем обмеры, разрабатываем планировку и готовим визуализации и рабочие чертежи.</p></div><figure><img src="assets/apartment-f/gallery/7053-retouched.webp" alt="Гостиная и столовая апартамента F" loading="lazy"></figure></article><article class="story reverse"><div><span class="story-number">02</span><span class="eyebrow">Хранение</span><h3>Место для ваших вещей</h3><p>Заранее решаем, где будут храниться одежда, чемоданы и бытовая техника. Проектируем гардеробные и встроенные шкафы, устанавливаем кухню и мебель, подключаем и проверяем технику.</p></div><figure><img src="assets/apartment-f/gallery/7181-finished.webp" alt="Готовая спальня апартамента F" loading="lazy"></figure></article><article class="story"><div><span class="story-number">03</span><span class="eyebrow">Освещение</span><h3>Свет для разных занятий</h3><p>Для готовки, чтения, работы и отдыха нужен разный свет. Подбираем светильники, продумываем расположение выключателей и проверяем, как работают сценарии освещения после монтажа.</p></div><figure><img src="assets/apartment-f/gallery/7092-retouched.webp" alt="Подвесные светильники над кухонным островом" loading="lazy"></figure></article><article class="story reverse"><div><span class="story-number">04</span><span class="eyebrow">Материалы</span><h3>Выбираем отделку для вашего дома</h3><p>Подбираем отделку и сантехнику с учётом влажности, износа и ухода. Согласуем стоимость, заказываем материалы и организуем доставку по графику. Готовим стены, полы и потолки, выполняем чистовую отделку по проекту.</p></div><figure><img src="assets/apartment-f/gallery/7075-retouched.webp" alt="Отделка кухни апартамента F" loading="lazy"></figure></article><article class="story"><div><span class="story-number">05</span><span class="eyebrow">Инженерия</span><h3>Предусматриваем всё до отделки</h3><p>Увязываем инженерные системы с планировкой и мебелью. По чертежам прокладываем электрику, водоснабжение и канализацию, монтируем отопление, вентиляцию и кондиционирование. Проверяем системы до отделки и оставляем доступ для обслуживания.</p></div><figure><img src="assets/apartment-f/engineering.webp" alt="Инженерные работы в апартаменте F" loading="lazy"></figure></article><a class="text-link" href="#contact">Рассказать о своём доме <span>↗</span></a></section>
 
@@ -89,5 +89,5 @@
 </dialog>
 <script defer src="assets/apartment-f/photos.js?v=12"></script>
 <script defer src="assets/apartment-g/photos.js?v=1"></script>
-<script defer src="apartment-f.js?v=11"></script>
+<script defer src="apartment-f.js?v=12"></script>
 </body></html>

diff --git a/Прототип/apartment-f.js b/Прототип/apartment-f.js
@@ -78,7 +78,7 @@ function bindCase(caseDialog, caseLink, photos, caseAssets, descriptions = {}, u
 
 const caseGalleries = {
   'apartment-f-dialog': [apartmentFPhotos, 'assets/apartment-f/gallery/', caseDescriptions],
-  'apartment-g-dialog': [apartmentGPhotos, 'assets/apartment-g/', {}, true, '?v=4']
+  'apartment-g-dialog': [apartmentGPhotos, 'assets/apartment-g/', {}, true, '?v=5']
 };
 
 document.querySelectorAll('[data-case]').forEach(link => {
